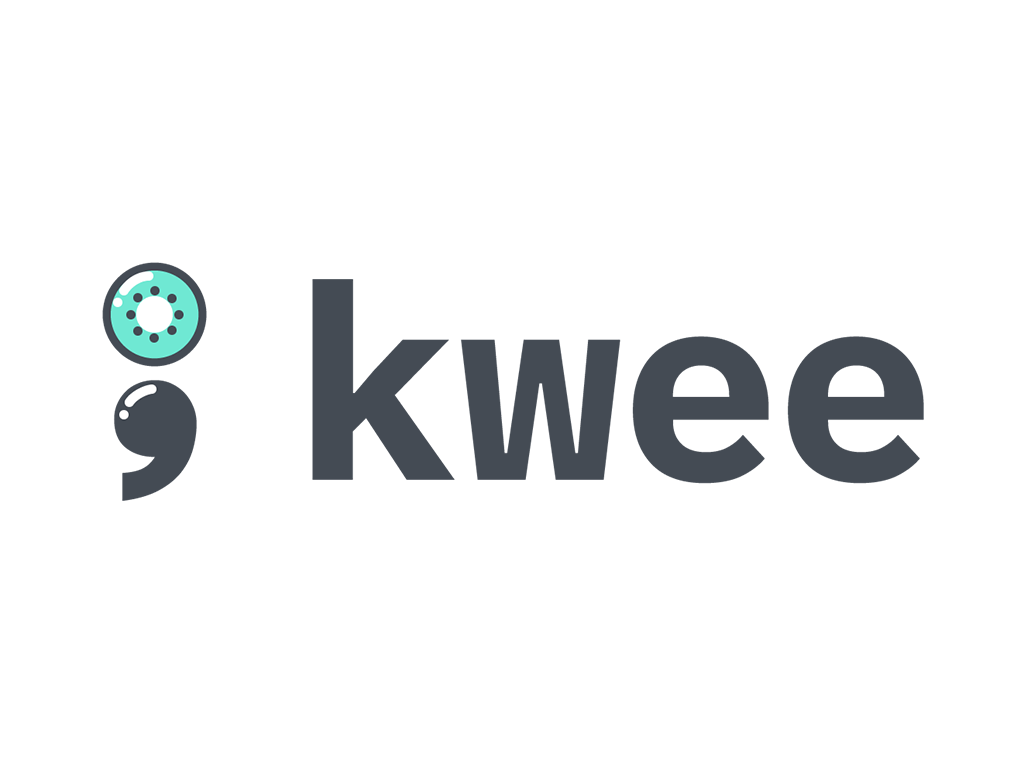
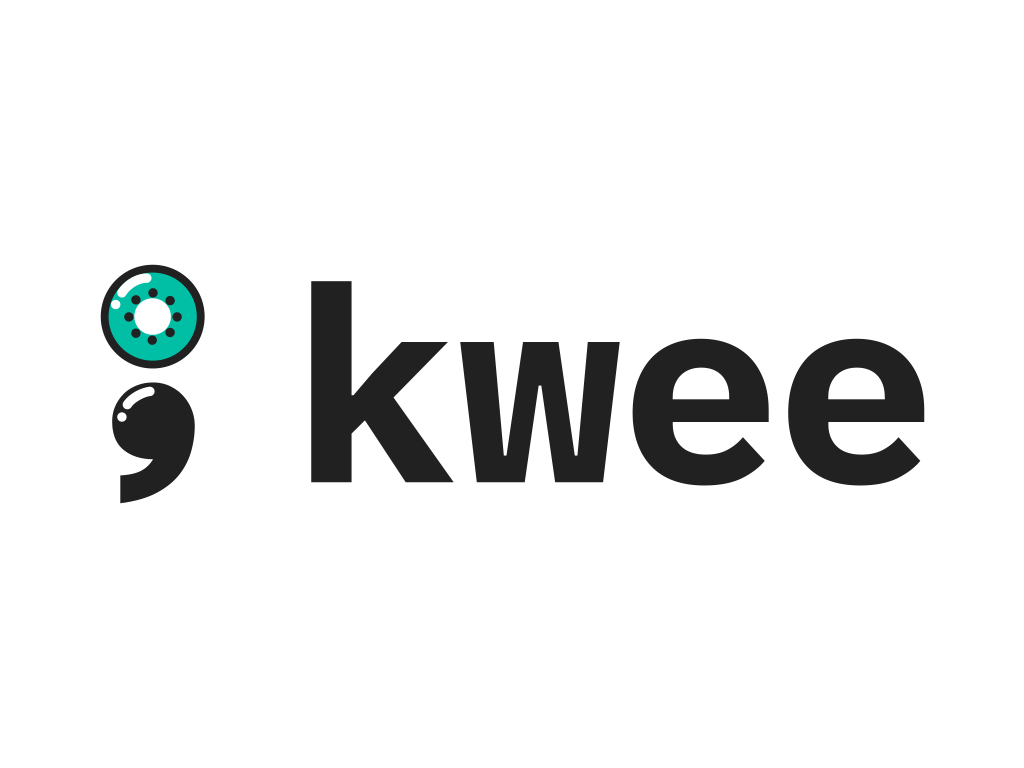
Change theme color to gray 900 and teal A700
fix

Changed region(s): [[0.2812, 0.3438, 0.9062, 0.6562], [0.0938, 0.3438, 0.2188, 0.6562]]

diff --git a/SPA/src/app/offer/offer-manage/offer-selection-process/offer-selection-process.component.scss b/SPA/src/app/offer/offer-manage/offer-selection-process/offer-selection-process.component.scss
@@ -33,10 +33,10 @@ mat-sidenav h3 {
 ::ng-deep app-offer-selection-process .mat-step-header .mat-step-icon-selected,
 app-offer-selection-process mat-step-header .mat-step-icon-state-done,
 app-offer-selection-process mat-step-header .mat-step-icon-state-edit {
-  background-color: #1de9b6 !important;
+  background-color: #00BFA5 !important;
 }
 
 ::ng-deep app-offer-selection-process mat-step-header .mat-step-icon-state-edit,
 app-offer-selection-process mat-step-header .mat-step-icon-state-done {
-  background-color: #1de9b6 !important;
+  background-color: #00BFA5 !important;
 }

diff --git a/SPA/src/app/shared/utils.service.ts b/SPA/src/app/shared/utils.service.ts
@@ -36,15 +36,15 @@ export function getColourFromIndex(index: number): string {
   let colour = '';
 
   if (index < 10) {
-    colour = '#ef5350'; // red
+    colour = '#00e676';
   } else if (index < 30) {
-    colour = '#ffa726'; // orange
+    colour = '#1de9b6';
   } else if (index < 60) {
-    colour = '#ffee58'; // yellow
+    colour = '#00e5ff';
   } else if (index < 80) {
-    colour = '#66bb6a'; // red
+    colour = '#00b0ff';
   } else {
-    colour = '#26c6da'; // blue
+    colour = '#2979ff';
   }
 
   return colour;

diff --git a/SPA/src/kwee-themes.styles.scss b/SPA/src/kwee-themes.styles.scss
@@ -14,8 +14,8 @@ $custom-typography: mat-typography-config(
 @include mat-core($custom-typography);
 
 // Define the default theme (same as the example above).
-$primary: mat-palette($mat-blue-gray, 700, 500, 900);
-$accent: mat-palette($mat-teal, A400, A200, A700);
+$primary: mat-palette($mat-gray, 900, 500, 900);
+$accent: mat-palette($mat-teal, A700, A200, A400);
 $white-app-theme: mat-light-theme($primary, $accent);
 
 // Include the default theme styles.

diff --git a/SPA/src/app/shared/smallcard/smallcard.component.scss b/SPA/src/app/shared/smallcard/smallcard.component.scss
@@ -1,13 +1,10 @@
-@import "../../../common-utils";
-@import '../../../../node_modules/@angular/material/theming';
-
 .small-card {
   max-width: 300px;
 }
 
 
 app-icon-with-text {
-  color: mat-color($mat-blue-gray, 700);
+  color: #212121;
 }
 
 
@@ -33,7 +30,7 @@ mat-card-content p {
 }
 
 .index {
-  background: mat-color($mat-teal, A400);
+  background: #00BFA5;
   color: white;
   padding: 5px;
   border-radius: 3px;

diff --git a/SPA/src/styles.scss b/SPA/src/styles.scss
@@ -12,7 +12,7 @@
 
 $color-negative-rating: #ff4536 !default;
 $color-ok-rating: #ffce0f !default;
-$color-positive-rating: #1de9b6 !default;
+$color-positive-rating: #00BFA5 !default;
 $color-default-rating: #444B54 !default;
 @import '~css-star-rating/scss/star-rating';
 
@@ -29,6 +29,6 @@ h2.mat-h1 {
 }
 
 p a, mat-tab-body a {
-  color: #1de9b6;
+  color: #00BFA5;
 }
 

diff --git a/SPA/src/app/offer/offer-preview-card/offer-preview-card.component.scss b/SPA/src/app/offer/offer-preview-card/offer-preview-card.component.scss
@@ -1,5 +1,4 @@
 @import "../../../common-utils";
-@import '../../../../node_modules/@angular/material/theming';
 
 mat-card-title {
   margin-top: -4px;
@@ -12,7 +11,7 @@ mat-card-title {
 
 app-icon-with-text {
   font-size: 0.85rem;
-  color: mat-color($mat-blue-gray, 700);
+  color: #212121
 }
 
 img {

diff --git a/SPA/src/app/search-users/search-businesses/business-preview-card/business-preview-card.component.scss b/SPA/src/app/search-users/search-businesses/business-preview-card/business-preview-card.component.scss
@@ -1,5 +1,4 @@
 @import "../../../../common-utils";
-@import '../../../../../node_modules/@angular/material/theming';
 
 
 mat-card {
@@ -24,7 +23,7 @@ mat-card-title {
 
 app-icon-with-text {
   font-size: 0.85rem;
-  color: mat-color($mat-blue-gray, 700);
+  color: #212121;
 }
 
 img {

diff --git a/SPA/src/app/search-users/search-candidates/candidate-preview-card/candidate-preview-card.component.scss b/SPA/src/app/search-users/search-candidates/candidate-preview-card/candidate-preview-card.component.scss
@@ -1,5 +1,4 @@
 @import "../../../../common-utils";
-@import '../../../../../node_modules/@angular/material/theming';
 
 
 mat-card {
@@ -24,7 +23,7 @@ mat-card-title {
 
 app-icon-with-text {
   font-size: 0.85rem;
-  color: mat-color($mat-blue-gray, 700);
+  color: #212121;
 }
 
 img {

diff --git a/SPA/src/app/core/header/user-menu/user-menu.component.scss b/SPA/src/app/core/header/user-menu/user-menu.component.scss
@@ -1,5 +1,3 @@
-@import '../../../../../node_modules/@angular/material/theming';
-
 .profileLogo {
   font-size: 1rem;
   margin-top: -16px;
@@ -52,7 +50,7 @@
   padding-bottom: 8px;
 
   a {
-    color: mat-color($mat-teal, A400);
+    color: #00BFA5;
   }
 }
 

diff --git a/SPA/src/app/offer/offer-detail/offer-detail.component.scss b/SPA/src/app/offer/offer-detail/offer-detail.component.scss
@@ -1,12 +1,10 @@
-@import '../../../../node_modules/@angular/material/theming';
-
 mat-card-title {
   font-size: 1.6rem !important;
 }
 
 app-icon-with-text {
   font-size: 0.85rem;
-  color: mat-color($mat-blue-gray, 700);
+  color: #212121
 }
 
 .offerImg {

diff --git a/SPA/src/app/rating/rate-candidate/rate-candidate.component.scss b/SPA/src/app/rating/rate-candidate/rate-candidate.component.scss
@@ -1,7 +1,5 @@
-@import '../../../../node_modules/@angular/material/theming';
-
 div.index {
-  background: mat-color($mat-teal, A400);
+  background: #00BFA5;
   color: white;
   border-radius: 3px;
   height: 22px;

diff --git a/SPA/src/app/shared/offerer-name-overview/offerer-name-overview.component.scss b/SPA/src/app/shared/offerer-name-overview/offerer-name-overview.component.scss
@@ -1,7 +1,5 @@
-@import '../../../../node_modules/@angular/material/theming';
-
 div.index {
-  background: mat-color($mat-teal, A400);
+  background: #00BFA5;
   color: white;
   border-radius: 3px;
   height: 22px;
